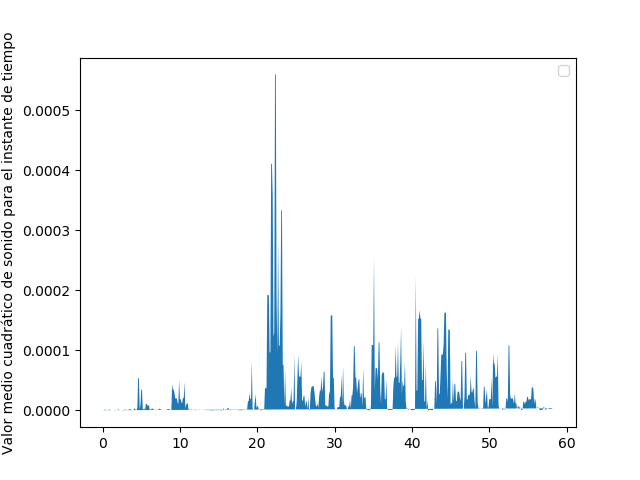
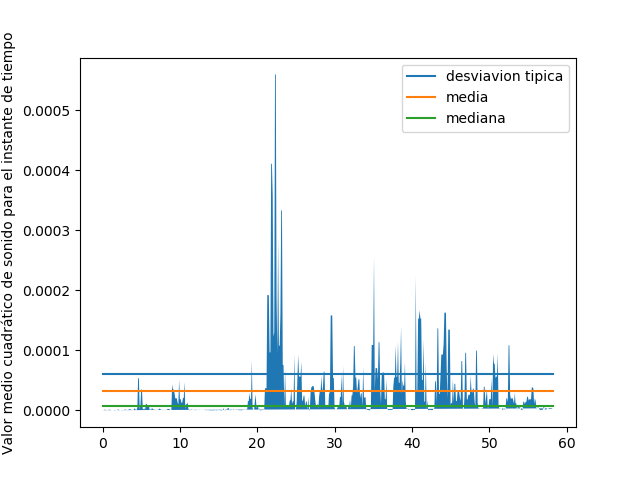
Avances

diff --git a/DataAnalytics/SoundLoudness.py b/DataAnalytics/SoundLoudness.py
@@ -12,10 +12,28 @@ def DrawSoundLoudness(floatArray, interval):
             steps[i] = steps[i-1]+ interval
 
         i = i +1
-        
+    
+
+
+    desviacion = np.std(floatArray)
+    media = np.mean(floatArray)
+    mediana = np.median(floatArray)
+    coeficiente_variacion = desviacion/media
+    print("El coeficiente de variacion fué: ", (coeficiente_variacion*100), '%')
+
     plt.figure()
     plt.fill(steps, floatArray, '-')
+    plt.plot(steps, [desviacion for x in steps], '-', label = "desviavion tipica")
+    plt.plot(steps, [media for x in steps], '-', label = 'media')
+    plt.plot(steps, [mediana for x in steps], '-', label = 'mediana')
     plt.ylabel('Valor medio cuadrático de sonido para el instante de tiempo')
     plt.legend()
     plt.savefig("Sonidoportiempo")
-    
+
+
+def AnalizeSoundLoudness(floatArray, step):
+    return
+
+
+
+

diff --git a/DataAnalytics/Analytics.py b/DataAnalytics/Analytics.py
@@ -2,12 +2,13 @@ import numpy as np
 import json
 import SoundLoudness
 import Emotions
-
+import os
 dataDir = './Data/'
 
-with open(dataDir + 'User1TypeSoundLoudness.json') as json_file:
-    jso = json.load(json_file)
-    floatArr = np.array(jso['data'])
+while(os.path.exists(dataDir)):
+    with open(dataDir + 'User1TypeSoundLoudness.json') as json_file:
+        jso = json.load(json_file)
+        floatArr = np.array(jso['data'])
 
 with open(dataDir + 'User1TypeVokaturi.json') as voka_json:
     jso = json.load(voka_json)

diff --git a/DataAnalytics/Emotions.py b/DataAnalytics/Emotions.py
@@ -6,11 +6,9 @@ import numpy as np
 
 def DrawEmotions(vokaArr):
     emotions = np.zeros(6) #neutral, happy, sad, angry and fear in that order
-    print (vokaArr)
     i = 0
     while i < (len(vokaArr)-5) :
         j = 0
-        print('lap')
         while(j < 5):
             if(vokaArr[i+j] == -1):
                 emotions[5] = emotions[5] + 1
